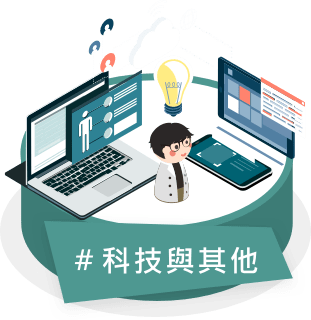
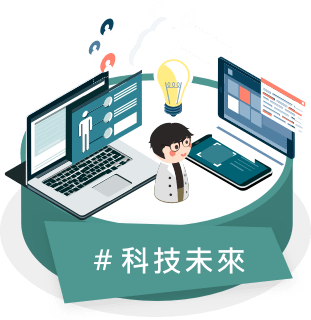
0305修改
1.首頁直播倒數區塊
2.首頁企業3d特效移除
3.職缺hover效果
4.直播頁仿youtube樣式
5.科技與其他改為科技工程
6.CTCI企業的一句話修改

Changed region(s): [[0.2315, 0.75, 0.8392, 0.875]]

diff --git a/live.html b/live.html
@@ -140,12 +140,14 @@
 						<li class="active">
 							<div class="top-box">
 								<div class="t-box">
-									<a href="https://www.youtube.com/watch?v=6dAwCalt7Eo" target="_blank">
-										<iframe src="https://www.youtube.com/embed/6dAwCalt7Eo?controls=0&showinfo=0&rel=0&autoplay=1&loop=1&mute=1&enablejsapi=1&playlist=6dAwCalt7Eo" frameborder="0" allow="accelerometer; autoplay; encrypted-media; gyroscope; picture-in-picture" allowfullscreen ></iframe>
+									<a href="http://www.104.com.tw/jb/service/ad/TransferAddress?trnid=adn_49667" target="_blank">
+										<!-- <iframe src="https://www.youtube.com/embed/6dAwCalt7Eo?controls=0&showinfo=0&rel=0&autoplay=1&loop=1&mute=1&enablejsapi=1&playlist=6dAwCalt7Eo" frameborder="0" allow="accelerometer; autoplay; encrypted-media; gyroscope; picture-in-picture" allowfullscreen ></iframe> -->
 										<!-- <span class="flex-box">
 											<span class="title">104人力銀行直播</span>
 											<span class="time">2019/03/08 (12:30-12:45) 開始直播</span>
 										</span> -->
+										<img src="img/page/live/live-banner-1.jpg">
+										<span class="black-mask"><i class="fa fa-caret-right" aria-hidden="true"></i></span>
 									</a>
 								</div>
 							</div>
@@ -166,12 +168,14 @@
 						<li>
 							<div class="top-box">
 								<div class="t-box">
-									<a href="https://www.youtube.com/watch?v=LNTxhAEuw_Q" target="_blank">
-										<iframe src="https://www.youtube.com/embed/LNTxhAEuw_Q?controls=0&showinfo=0&rel=0&autoplay=1&loop=1&mute=1&enablejsapi=1&playlist=LNTxhAEuw_Q" frameborder="0" allow="accelerometer; autoplay; encrypted-media; gyroscope; picture-in-picture" allowfullscreen ></iframe>
+									<a href="http://www.104.com.tw/jb/service/ad/TransferAddress?trnid=adn_50199" target="_blank">
+										<!-- <iframe src="https://www.youtube.com/embed/LNTxhAEuw_Q?controls=0&showinfo=0&rel=0&autoplay=1&loop=1&mute=1&enablejsapi=1&playlist=LNTxhAEuw_Q" frameborder="0" allow="accelerometer; autoplay; encrypted-media; gyroscope; picture-in-picture" allowfullscreen ></iframe> -->
 										<!-- <span class="flex-box">
 											<span class="title">永豐銀行直播</span>
 											<span class="time">2019/03/13 (12:30-12:45) 開始直播</span>
 										</span> -->
+										<img src="img/page/live/live-banner-2.jpg">
+										<span class="black-mask"><i class="fa fa-caret-right" aria-hidden="true"></i></span>
 									</a>
 								</div>
 							</div>
@@ -192,12 +196,14 @@
 						<li>
 							<div class="top-box">
 								<div class="t-box">
-									<a href="https://www.youtube.com/watch?v=8njRAGSswCA" target="_blank">
-										<iframe src="https://www.youtube.com/embed/8njRAGSswCA?controls=0&showinfo=0&rel=0&autoplay=1&loop=1&mute=1&enablejsapi=1&playlist=8njRAGSswCA" frameborder="0" allow="accelerometer; autoplay; encrypted-media; gyroscope; picture-in-picture" allowfullscreen ></iframe>
+									<a href="http://www.104.com.tw/jb/service/ad/TransferAddress?trnid=adn_50197" target="_blank">
+										<!-- <iframe src="https://www.youtube.com/embed/8njRAGSswCA?controls=0&showinfo=0&rel=0&autoplay=1&loop=1&mute=1&enablejsapi=1&playlist=8njRAGSswCA" frameborder="0" allow="accelerometer; autoplay; encrypted-media; gyroscope; picture-in-picture" allowfullscreen ></iframe> -->
 										<!-- <span class="flex-box">
 											<span class="title">中租迪和直播</span>
 											<span class="time">2019/03/20 (12:30-12:45) 開始直播</span>
 										</span> -->
+										<img src="img/page/live/live-banner-3.jpg">
+										<span class="black-mask"><i class="fa fa-caret-right" aria-hidden="true"></i></span>
 									</a>
 								</div>
 							</div>
@@ -218,12 +224,14 @@
 						<li>
 							<div class="top-box">
 								<div class="t-box">
-								<a href="https://www.youtube.com/watch?v=5lbPC4omS1Q" target="_blank">
-									<iframe src="https://www.youtube.com/embed/5lbPC4omS1Q?controls=0&showinfo=0&rel=0&autoplay=1&loop=1&mute=1&enablejsapi=1&playlist=5lbPC4omS1Q" frameborder="0" allow="accelerometer; autoplay; encrypted-media; gyroscope; picture-in-picture" allowfullscreen ></iframe>
+								<a href="http://www.104.com.tw/jb/service/ad/TransferAddress?trnid=adn_50201" target="_blank">
+									<!-- <iframe src="https://www.youtube.com/embed/5lbPC4omS1Q?controls=0&showinfo=0&rel=0&autoplay=1&loop=1&mute=1&enablejsapi=1&playlist=5lbPC4omS1Q" frameborder="0" allow="accelerometer; autoplay; encrypted-media; gyroscope; picture-in-picture" allowfullscreen ></iframe> -->
 									<!-- <span class="flex-box">
 										<span class="title">廣達電腦直播</span>
 										<span class="time">2019/03/29 (12:30-12:45) 開始直播</span>
 									</span> -->
+									<img src="img/page/live/live-banner-4.jpg">
+										<span class="black-mask"><i class="fa fa-caret-right" aria-hidden="true"></i></span>
 								</a>
 								</div>
 							</div>

diff --git a/index.html b/index.html
@@ -31,10 +31,10 @@
 		<script src="plugin/jquery/1.9.1.min.js"></script>
 		<script src="plugin/jqueryui/1.10.3.min.js"></script>
 		<script src="plugin/aos/aos.js"></script>
-		<script src="plugin/TweenMax/min.js"></script>
+		<!-- <script src="plugin/TweenMax/min.js"></script> -->
 		<script src="plugin/countdown/jquery.countdown.js"></script>
 		<script src="plugin/slick/slick.min.js"></script>
-		<script src="js/fit.js"></script>
+		<!-- <script src="js/fit.js"></script> -->
 		<script src="js/global.js"></script>
 		<script src="js/index.js"></script>
 		<script>
@@ -103,13 +103,14 @@
 		<section class="section1">
 			<div class="title-box" data-aos="fade-down" data-aos-duration="1000"></div>
 			<div class="live-info-box" data-aos="fade-left" data-aos-delay="1300" data-aos-duration="1000">
-				<div class="live-notice">
-					<a href="http://www.104.com.tw/jb/service/ad/TransferAddress?trnid=adn_49367" target="_blank"><span>直播預告：3/8 12:30 史上最雷面試行為，母湯哦！</span></a>
-				</div>
 				<div class="live-countdown">
 					<span>直播倒數</span>
 					<span id="countdown-box"></span>
 				</div>
+				<div class="live-notice">
+					<a href="http://www.104.com.tw/jb/service/ad/TransferAddress?trnid=adn_49367" target="_blank"><span>104人力銀行 ｜ 3/8 12:30 史上最雷面試行為，母湯哦！</span></a>
+				</div>
+
 			</div>
 			<div class="balloon1-box" data-aos="fade-up" data-aos-delay="1000" data-aos-duration="1000">
 				<div class="balloon1"></div>
@@ -472,10 +473,10 @@
 						<div class="bottom"></div>
 						<div class="shadow"></div>
 					</li>
-					<li class="li-cat-3 ga-click" data-category="click" data-label="科技與其他" data-tab="3">
+					<li class="li-cat-3 ga-click" data-category="click" data-label="科技工程" data-tab="3">
 						<div class="top"></div>
 						<div class="content">
-							<div class="title title3"># 科技與其他</div>
+							<div class="title title3"># 科技工程</div>
 							<span>最有前瞻性的技術市場都在這裡</span>
 						</div>
 						<div class="bottom"></div>
@@ -521,7 +522,7 @@
 								<span class="com ga-click" data-category="logo" data-label="廣達電腦" data-com="302"><span><span><img src="img/page/page/company-img/302/logo-001.png"></span><span class="text">加入廣達，放大力量</span></span></span>
 								<span class="com ga-click" data-category="logo" data-label="群創光電" data-com="303"><span><span><img src="img/page/page/company-img/303/logo-001.png"></span><span class="text">世界TFT-LCD領導廠</span></span></span>
 								<span class="com ga-click" data-category="logo" data-label="ASML" data-com="304"><span><span><img src="img/page/page/company-img/304/logo-001.png"></span><span class="text">微觀世界 科技之眼</span></span></span>
-								<span class="com ga-click" data-category="logo" data-label="CTCI" data-com="305"><span><span><img src="img/page/page/company-img/305/logo-001.png"></span><span class="text">全球工程服務團隊</span></span></span>
+								<span class="com ga-click" data-category="logo" data-label="CTCI" data-com="305"><span><span><img src="img/page/page/company-img/305/logo-001.png"></span><span class="text">全球統包工程服務</span></span></span>
 							</div>
 						</li>
 					</ul>

diff --git a/page303.html b/page303.html
@@ -540,7 +540,7 @@
 								<span class="com"><a href="page301.html"><span><span><img src="img/page/page/company-img/301/logo-001.jpg"></span><span class="text">全球光電領導廠</span></span></a></span>
 								<span class="com"><a href="page302.html"><span><span><img src="img/page/page/company-img/302/logo-001.png"></span><span class="text">加入廣達，放大力量</span></span></a></span>
 								<span class="com"><a href="page304.html"><span><span><img src="img/page/page/company-img/304/logo-001.png"></span><span class="text">微觀世界 科技之眼</span></span></a></span>
-								<span class="com"><a href="page305.html"><span><span><img src="img/page/page/company-img/305/logo-001.png"></span><span class="text">全球工程服務團隊</span></span></a></span>
+								<span class="com"><a href="page305.html"><span><span><img src="img/page/page/company-img/305/logo-001.png"></span><span class="text">全球統包工程服務</span></span></a></span>
 							</div>
 						</div>
 						<div class="page-slide-box">
@@ -559,7 +559,7 @@
 							<div class="title"></div>
 							<div class="com-box">
 								<span class="com"><a href="page304.html"><span><span><img src="img/page/page/company-img/304/logo-001.png"></span><span class="text">微觀世界 科技之眼</span></span></a></span>
-								<span class="com"><a href="page305.html"><span><span><img src="img/page/page/company-img/305/logo-001.png"></span><span class="text">全球工程服務團隊</span></span></a></span>
+								<span class="com"><a href="page305.html"><span><span><img src="img/page/page/company-img/305/logo-001.png"></span><span class="text">全球統包工程服務</span></span></a></span>
 							</div>
 						</div>
 						<div class="page-slide-box">

diff --git a/page304.html b/page304.html
@@ -807,7 +807,7 @@
 								<span class="com"><a href="page301.html"><span><span><img src="img/page/page/company-img/301/logo-001.jpg"></span><span class="text">全球光電領導廠</span></span></a></span>
 								<span class="com"><a href="page302.html"><span><span><img src="img/page/page/company-img/302/logo-001.png"></span><span class="text">加入廣達，放大力量</span></span></a></span>
 								<span class="com"><a href="page303.html"><span><span><img src="img/page/page/company-img/303/logo-001.png"></span><span class="text">世界TFT-LCD領導廠</span></span></a></span>
-								<span class="com"><a href="page305.html"><span><span><img src="img/page/page/company-img/305/logo-001.png"></span><span class="text">全球工程服務團隊</span></span></a></span>
+								<span class="com"><a href="page305.html"><span><span><img src="img/page/page/company-img/305/logo-001.png"></span><span class="text">全球統包工程服務</span></span></a></span>
 							</div>
 						</div>
 						<div class="page-slide-box">
@@ -826,7 +826,7 @@
 							<div class="title"></div>
 							<div class="com-box">
 								<span class="com"><a href="page303.html"><span><span><img src="img/page/page/company-img/303/logo-001.png"></span><span class="text">世界TFT-LCD領導廠</span></span></a></span>
-								<span class="com"><a href="page305.html"><span><span><img src="img/page/page/company-img/305/logo-001.png"></span><span class="text">全球工程服務團隊</span></span></a></span>
+								<span class="com"><a href="page305.html"><span><span><img src="img/page/page/company-img/305/logo-001.png"></span><span class="text">全球統包工程服務</span></span></a></span>
 							</div>
 						</div>
 						<div class="page-slide-box">

diff --git a/page301.html b/page301.html
@@ -891,7 +891,7 @@
 								<span class="com"><a href="page302.html"><span><span><img src="img/page/page/company-img/302/logo-001.png"></span><span class="text">加入廣達，放大力量</span></span></a></span>
 								<span class="com"><a href="page303.html"><span><span><img src="img/page/page/company-img/303/logo-001.png"></span><span class="text">世界TFT-LCD領導廠</span></span></a></span>
 								<span class="com"><a href="page304.html"><span><span><img src="img/page/page/company-img/304/logo-001.png"></span><span class="text">微觀世界 科技之眼</span></span></a></span>
-								<span class="com"><a href="page305.html"><span><span><img src="img/page/page/company-img/305/logo-001.png"></span><span class="text">全球工程服務團隊</span></span></a></span>
+								<span class="com"><a href="page305.html"><span><span><img src="img/page/page/company-img/305/logo-001.png"></span><span class="text">全球統包工程服務</span></span></a></span>
 							</div>
 						</div>
 						<div class="page-slide-box">
@@ -910,7 +910,7 @@
 							<div class="title"></div>
 							<div class="com-box">
 								<span class="com"><a href="page304.html"><span><span><img src="img/page/page/company-img/304/logo-001.png"></span><span class="text">微觀世界 科技之眼</span></span></a></span>
-								<span class="com"><a href="page305.html"><span><span><img src="img/page/page/company-img/305/logo-001.png"></span><span class="text">全球工程服務團隊</span></span></a></span>
+								<span class="com"><a href="page305.html"><span><span><img src="img/page/page/company-img/305/logo-001.png"></span><span class="text">全球統包工程服務</span></span></a></span>
 							</div>
 						</div>
 

diff --git a/page302.html b/page302.html
@@ -959,7 +959,7 @@
 								<span class="com"><a href="page301.html"><span><span><img src="img/page/page/company-img/301/logo-001.jpg"></span><span class="text">全球光電領導廠</span></span></a></span>
 								<span class="com"><a href="page303.html"><span><span><img src="img/page/page/company-img/303/logo-001.png"></span><span class="text">世界TFT-LCD領導廠</span></span></a></span>
 								<span class="com"><a href="page304.html"><span><span><img src="img/page/page/company-img/304/logo-001.png"></span><span class="text">微觀世界 科技之眼</span></span></a></span>
-								<span class="com"><a href="page305.html"><span><span><img src="img/page/page/company-img/305/logo-001.png"></span><span class="text">全球工程服務團隊</span></span></a></span>
+								<span class="com"><a href="page305.html"><span><span><img src="img/page/page/company-img/305/logo-001.png"></span><span class="text">全球統包工程服務</span></span></a></span>
 							</div>
 						</div>
 						<div class="page-slide-box">
@@ -978,7 +978,7 @@
 							<div class="title"></div>
 							<div class="com-box">
 								<span class="com"><a href="page304.html"><span><span><img src="img/page/page/company-img/304/logo-001.png"></span><span class="text">微觀世界 科技之眼</span></span></a></span>
-								<span class="com"><a href="page305.html"><span><span><img src="img/page/page/company-img/305/logo-001.png"></span><span class="text">全球工程服務團隊</span></span></a></span>
+								<span class="com"><a href="page305.html"><span><span><img src="img/page/page/company-img/305/logo-001.png"></span><span class="text">全球統包工程服務</span></span></a></span>
 							</div>
 						</div>
 

diff --git a/css/live.css b/css/live.css
@@ -1280,7 +1280,7 @@ section {
   justify-content: center;
   width: 100%;
   height: 185px;
-  background-color: #F39800;
+  background-color: #000;
 }
 @media all and (max-width: 800px) {
   .section3 .box .article-list-box .article-list li .top-box .t-box {
@@ -1309,11 +1309,41 @@ section {
   justify-content: center;
   width: 100%;
   height: 100%;
+  overflow: hidden;
 }
 .section3 .box .article-list-box .article-list li .top-box .t-box a iframe {
   display: block;
   width: 100%;
   height: 100%;
+}
+.section3 .box .article-list-box .article-list li .top-box .t-box a img {
+  display: block;
+  width: 100%;
+}
+.section3 .box .article-list-box .article-list li .top-box .t-box a .black-mask {
+  position: absolute;
+  top: 0;
+  left: 0;
+  width: 100%;
+  height: 100%;
+  background-color: rgba(0, 0, 0, 0.6);
+}
+.section3 .box .article-list-box .article-list li .top-box .t-box a .black-mask i {
+  font-size: 60px;
+  color: #e6e6e6;
+  position: absolute;
+  left: 50%;
+  top: 50%;
+  margin-left: -10px;
+  margin-top: -30px;
+  -webkit-transition: all 0.3s ease;
+  -moz-transition: all 0.3s ease;
+  -o-transition: all 0.3s ease;
+  -ms-transition: all 0.3s ease;
+  transition: all 0.3s ease;
+}
+.section3 .box .article-list-box .article-list li .top-box .t-box a .black-mask:hover i {
+  color: #ec2020;
 }
 .section3 .box .article-list-box .article-list li .top-box .flex-box .title {
   display: block;

diff --git a/less/page/live.less b/less/page/live.less
@@ -353,7 +353,7 @@ section {
 							justify-content: center;
 							width: 100%;
 							height: 185px;
-							background-color: #F39800;
+							background-color: #000;
 							@media all and (max-width: 800px) {
 								& { height: 300px; padding: 0; }
 							}
@@ -372,10 +372,37 @@ section {
 								justify-content: center;
 								width: 100%;
 								height: 100%;
+								overflow: hidden;
 								iframe {
 									display: block;
 									width: 100%;
 									height: 100%;
+								}
+								img {
+									display: block;
+									width: 100%;
+								}
+								.black-mask {
+									position: absolute;
+									top: 0;
+									left: 0;
+									width: 100%;
+									height: 100%;
+									background-color: rgba(0, 0, 0, 0.6);
+									i {
+										font-size: 60px;
+										color: #e6e6e6;
+										position: absolute;
+										left: 50%;
+										top: 50%;
+										margin-left: -10px;
+										margin-top: -30px;
+										.trs;
+
+									}
+									&:hover {
+										i { color: #ec2020; }
+									}
 								}
 							}
 						}

diff --git a/css/index.css b/css/index.css
@@ -1040,7 +1040,6 @@ section {
   border-radius: 10px;
   background-color: #F4F4F4;
   box-shadow: 1px 7px #CECECE;
-  margin-bottom: 17px;
 }
 .section1 .live-info-box .live-countdown {
   padding: 8px 15px;
@@ -1048,6 +1047,7 @@ section {
   background-color: #F4F4F4;
   box-shadow: 1px 7px #CECECE;
   text-align: center;
+  margin-bottom: 17px;
   -webkit-transition: all 0.3s ease;
   -moz-transition: all 0.3s ease;
   -o-transition: all 0.3s ease;
@@ -3867,7 +3867,8 @@ section {
   transition: all 0.3s ease;
 }
 .section3 .front-box .inset-box .company-detail-box .com-jobs-box table.com-jobs td .join-btn:hover {
-  transform: translate3d(0, -5px, 0);
+  background-color: #fdcf00;
+  box-shadow: 0px 4px #f8b300;
 }
 .section3 .front-box .inset-box .company-detail-box .com-jobs-box table.com-jobs td .join-btn a {
   display: block;

diff --git a/less/page/index.less b/less/page/index.less
@@ -230,7 +230,7 @@ section {
 			border-radius: 10px;
 			background-color: #F4F4F4;
 			box-shadow: 1px 7px #CECECE;
-			margin-bottom: 17px;
+
 		}
 		.live-countdown {
 			padding: 8px 15px;
@@ -238,6 +238,7 @@ section {
 			background-color: #F4F4F4;
 			box-shadow: 1px 7px #CECECE;
 			text-align: center;
+			margin-bottom: 17px;
 			.trs;
 			>span {
 				margin-right: 10px;
@@ -2670,7 +2671,8 @@ section {
 								box-shadow: 0px 4px #D6890A;
 								.trs;
 								&:hover {
-									transform: translate3d(0,-5px,0);
+									background-color: #fdcf00;
+									box-shadow: 0px 4px #f8b300;
 								}
 								a {
 									display: block;

diff --git a/css/page.css b/css/page.css
@@ -1896,7 +1896,8 @@ section {
   transition: all 0.3s ease;
 }
 .section2 .stage .com-jobs-box table.com-jobs td .join-btn:hover {
-  transform: translate3d(0, -5px, 0);
+  background-color: #fdcf00;
+  box-shadow: 0px 4px #f8b300;
 }
 .section2 .stage .com-jobs-box table.com-jobs td .join-btn a {
   display: block;

diff --git a/less/page/page.less b/less/page/page.less
@@ -938,7 +938,8 @@ section {
 						box-shadow: 0px 4px #D6890A;
 						.trs;
 						&:hover {
-							transform: translate3d(0,-5px,0);
+							background-color: #fdcf00;
+							box-shadow: 0px 4px #f8b300;
 						}
 						a {
 							display: block;
